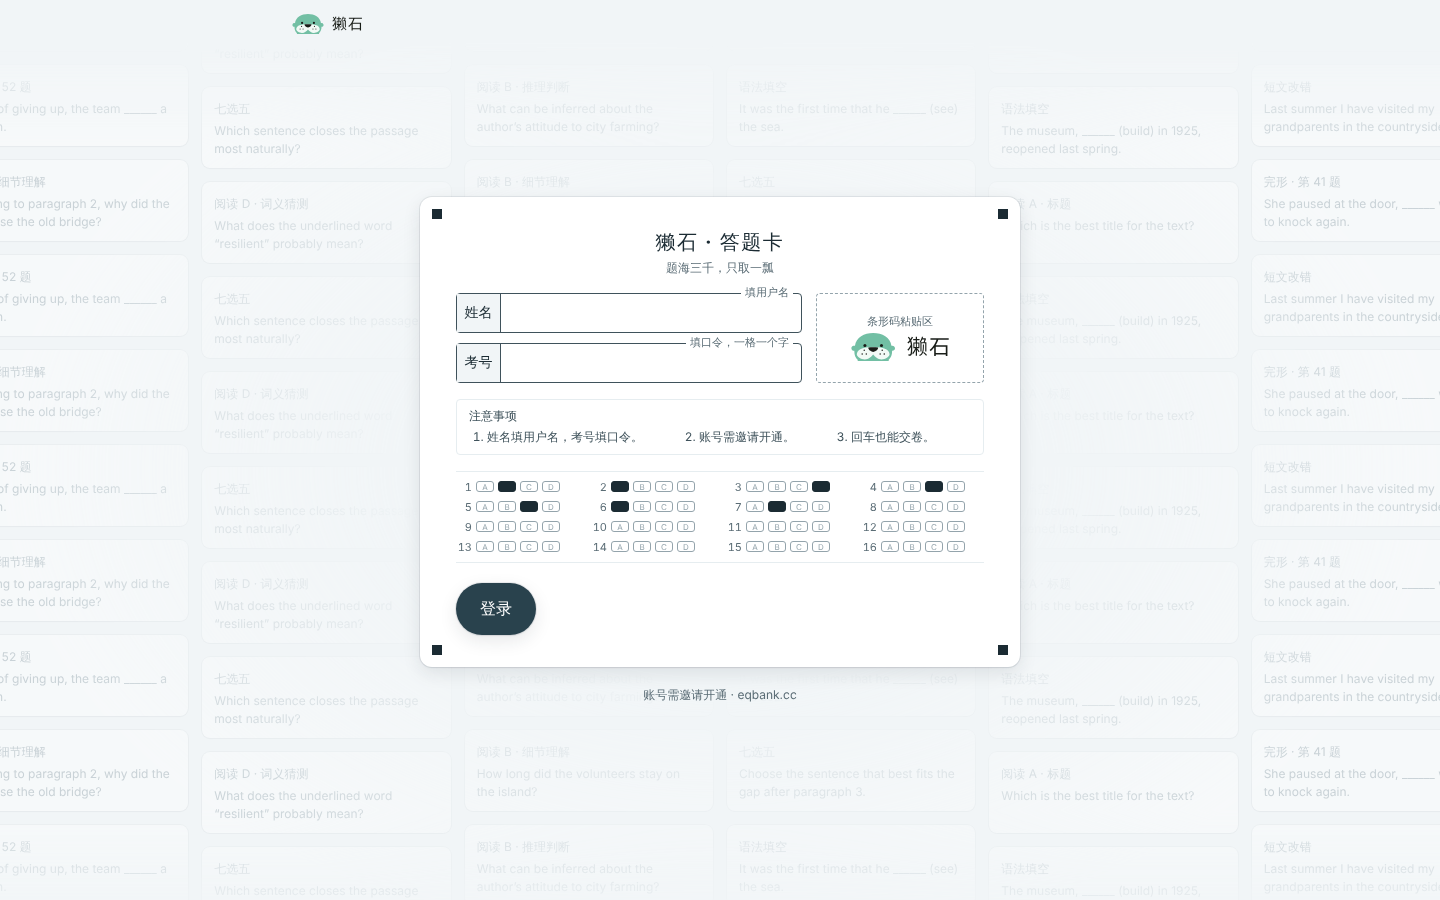
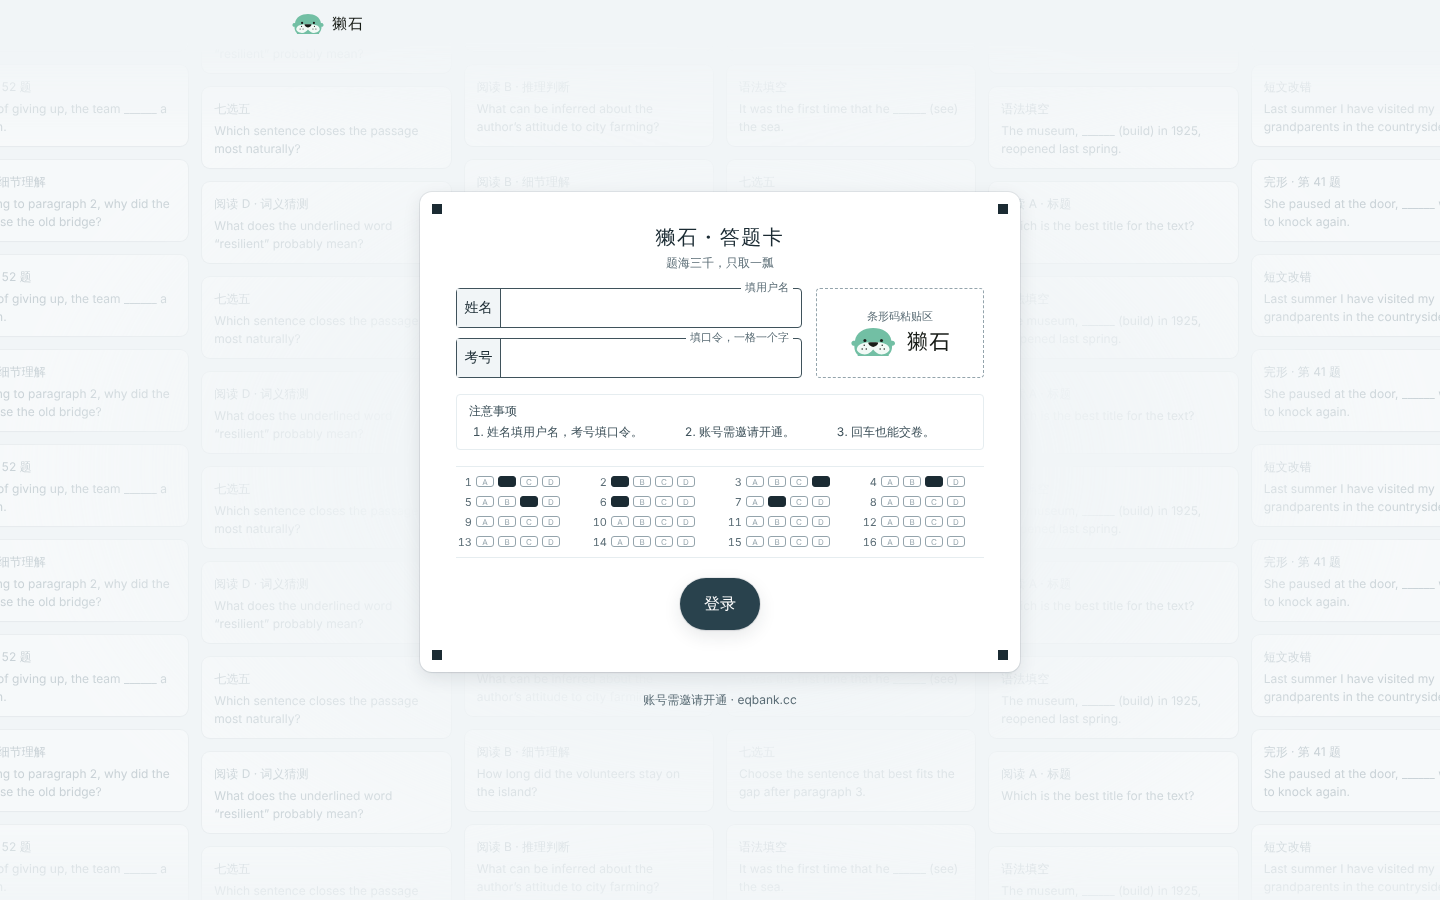
design: 题卡样张答题卡登录键居中，标成先存档暂不用
Claude-Session: https://claude.ai/code/session_01Ct2ZK9gFhJo2CP1NsM765z

diff --git a/design/login-redo-2026-11-17/quiz/src/quiz.css b/design/login-redo-2026-11-17/quiz/src/quiz.css
@@ -67,7 +67,7 @@ html, body { margin: 0; background: var(--eqb-color-bg); }
 .q-actions .q-marking { min-height: 0; flex: 1 1 200px; }
 .q-submit { min-width: 160px; }
 .q-aside { font-size: var(--eqb-font-size-xs); color: var(--eqb-color-text-muted); }
-.q-card--reading .q-submit, .q-sheet .q-submit { align-self: flex-start; }
+.q-card--reading .q-submit { align-self: flex-start; }
 
 /* 2 答题卡 */
 .q-sheet { width: min(600px, 100%); padding: 32px 36px; gap: 16px; }
@@ -149,3 +149,8 @@ html, body { margin: 0; background: var(--eqb-color-bg); }
   .q-feedback-grid { grid-template-columns: minmax(0, 1fr); }
   .q-otter { width: 150px; margin-bottom: -26px; }
 }
+
+/* 答题卡：登录键居中，批改那一行放在键下面也居中（Owner 11-17「登录要不要居中一下」） */
+.q-sheet .q-actions { flex-direction: column; align-items: center; gap: 10px; }
+.q-sheet .q-actions .q-marking { flex: none; text-align: center; }
+.q-sheet .q-actions .q-marking p { justify-content: center; }

diff --git a/design/login-redo-2026-11-17/quiz/README.md b/design/login-redo-2026-11-17/quiz/README.md
@@ -1,6 +1,8 @@
 # 登录页「题卡」四个方向样张（2026-11-17）
 
-状态：**提案 · 单一来源**（只来自 Owner 一人的想法和本次样张，没做同事访谈；没定）。
+状态：**提案 · 单一来源 · 先存档，暂不用**（只来自 Owner 一人的想法和本次样张，没做同事访谈；没定）。
+
+Owner 11-17 看完：「答题卡，这个好玩……登录要不要居中一下。然后做好了之后存一下档……但是先不用。现在我们围绕的是此时此刻的登录页。」答题卡的登录键和批改那一行已改成居中（`quiz.css` 末尾一段），可点页面同一链接更新到第 2 版。
 
 起因：Owner 11-17「能不能走题海的思路……用户名和密码是题目或者选项？」，随后「做点样张我看看每个方向都做一个」。
 
